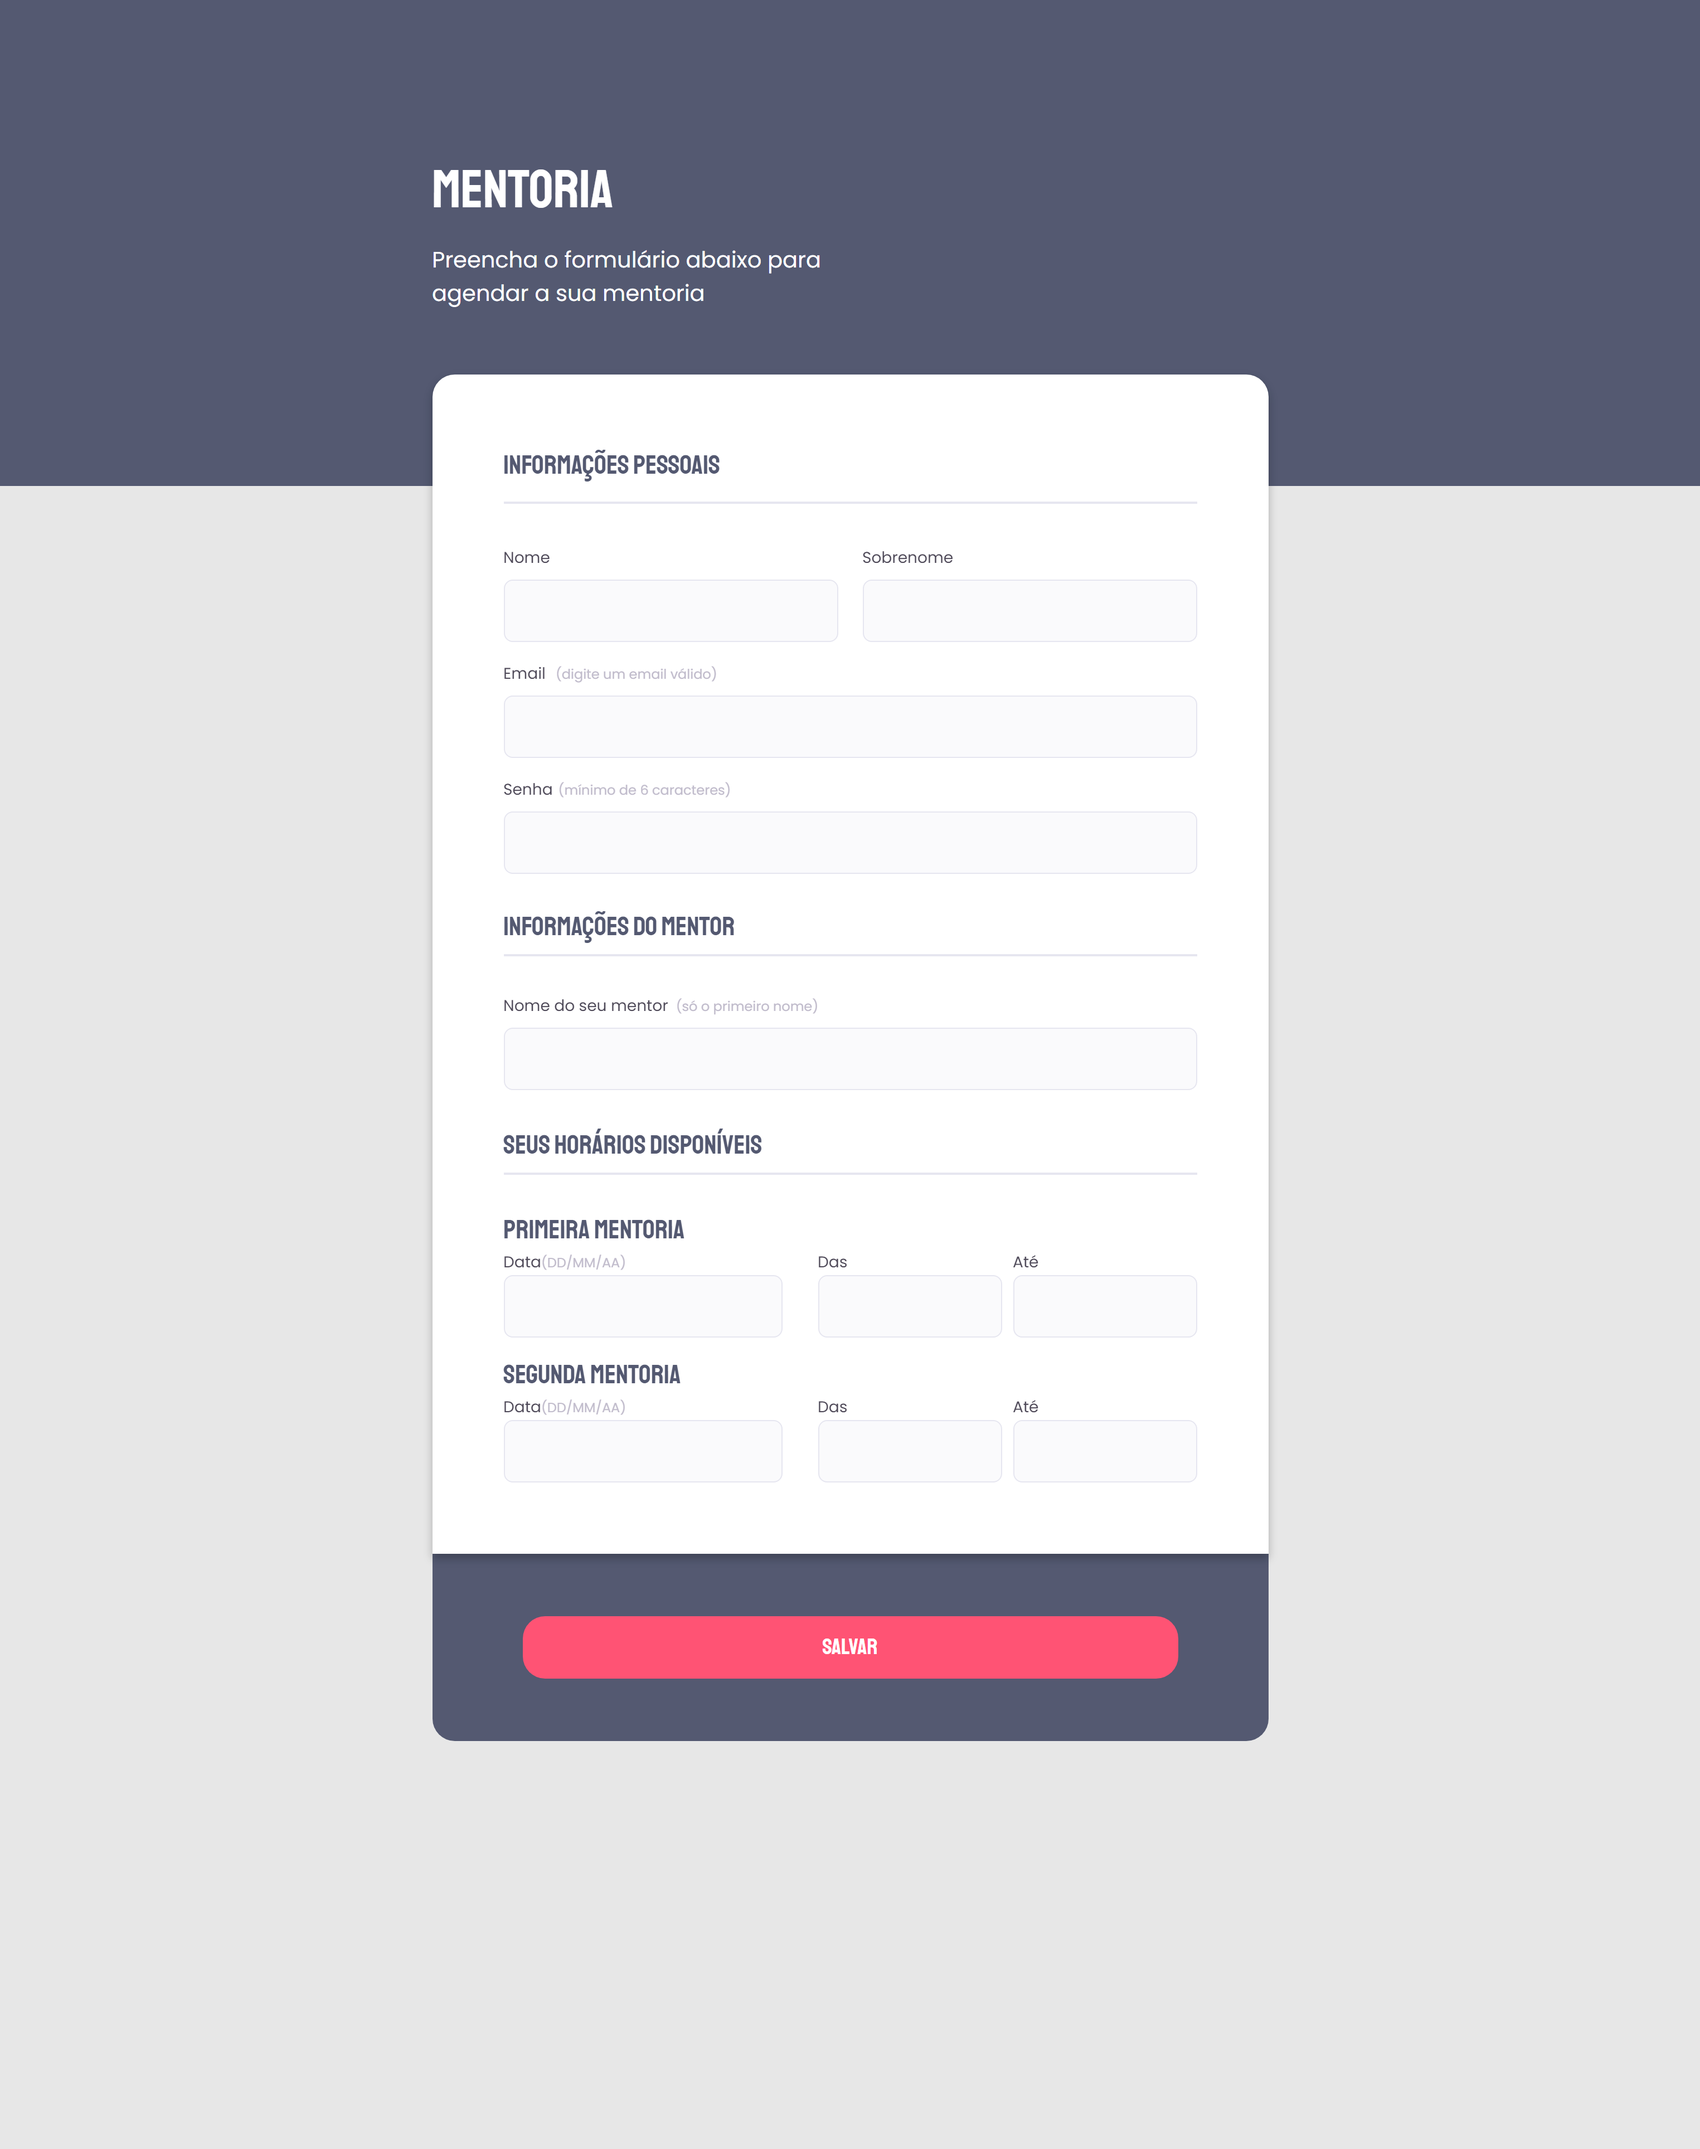
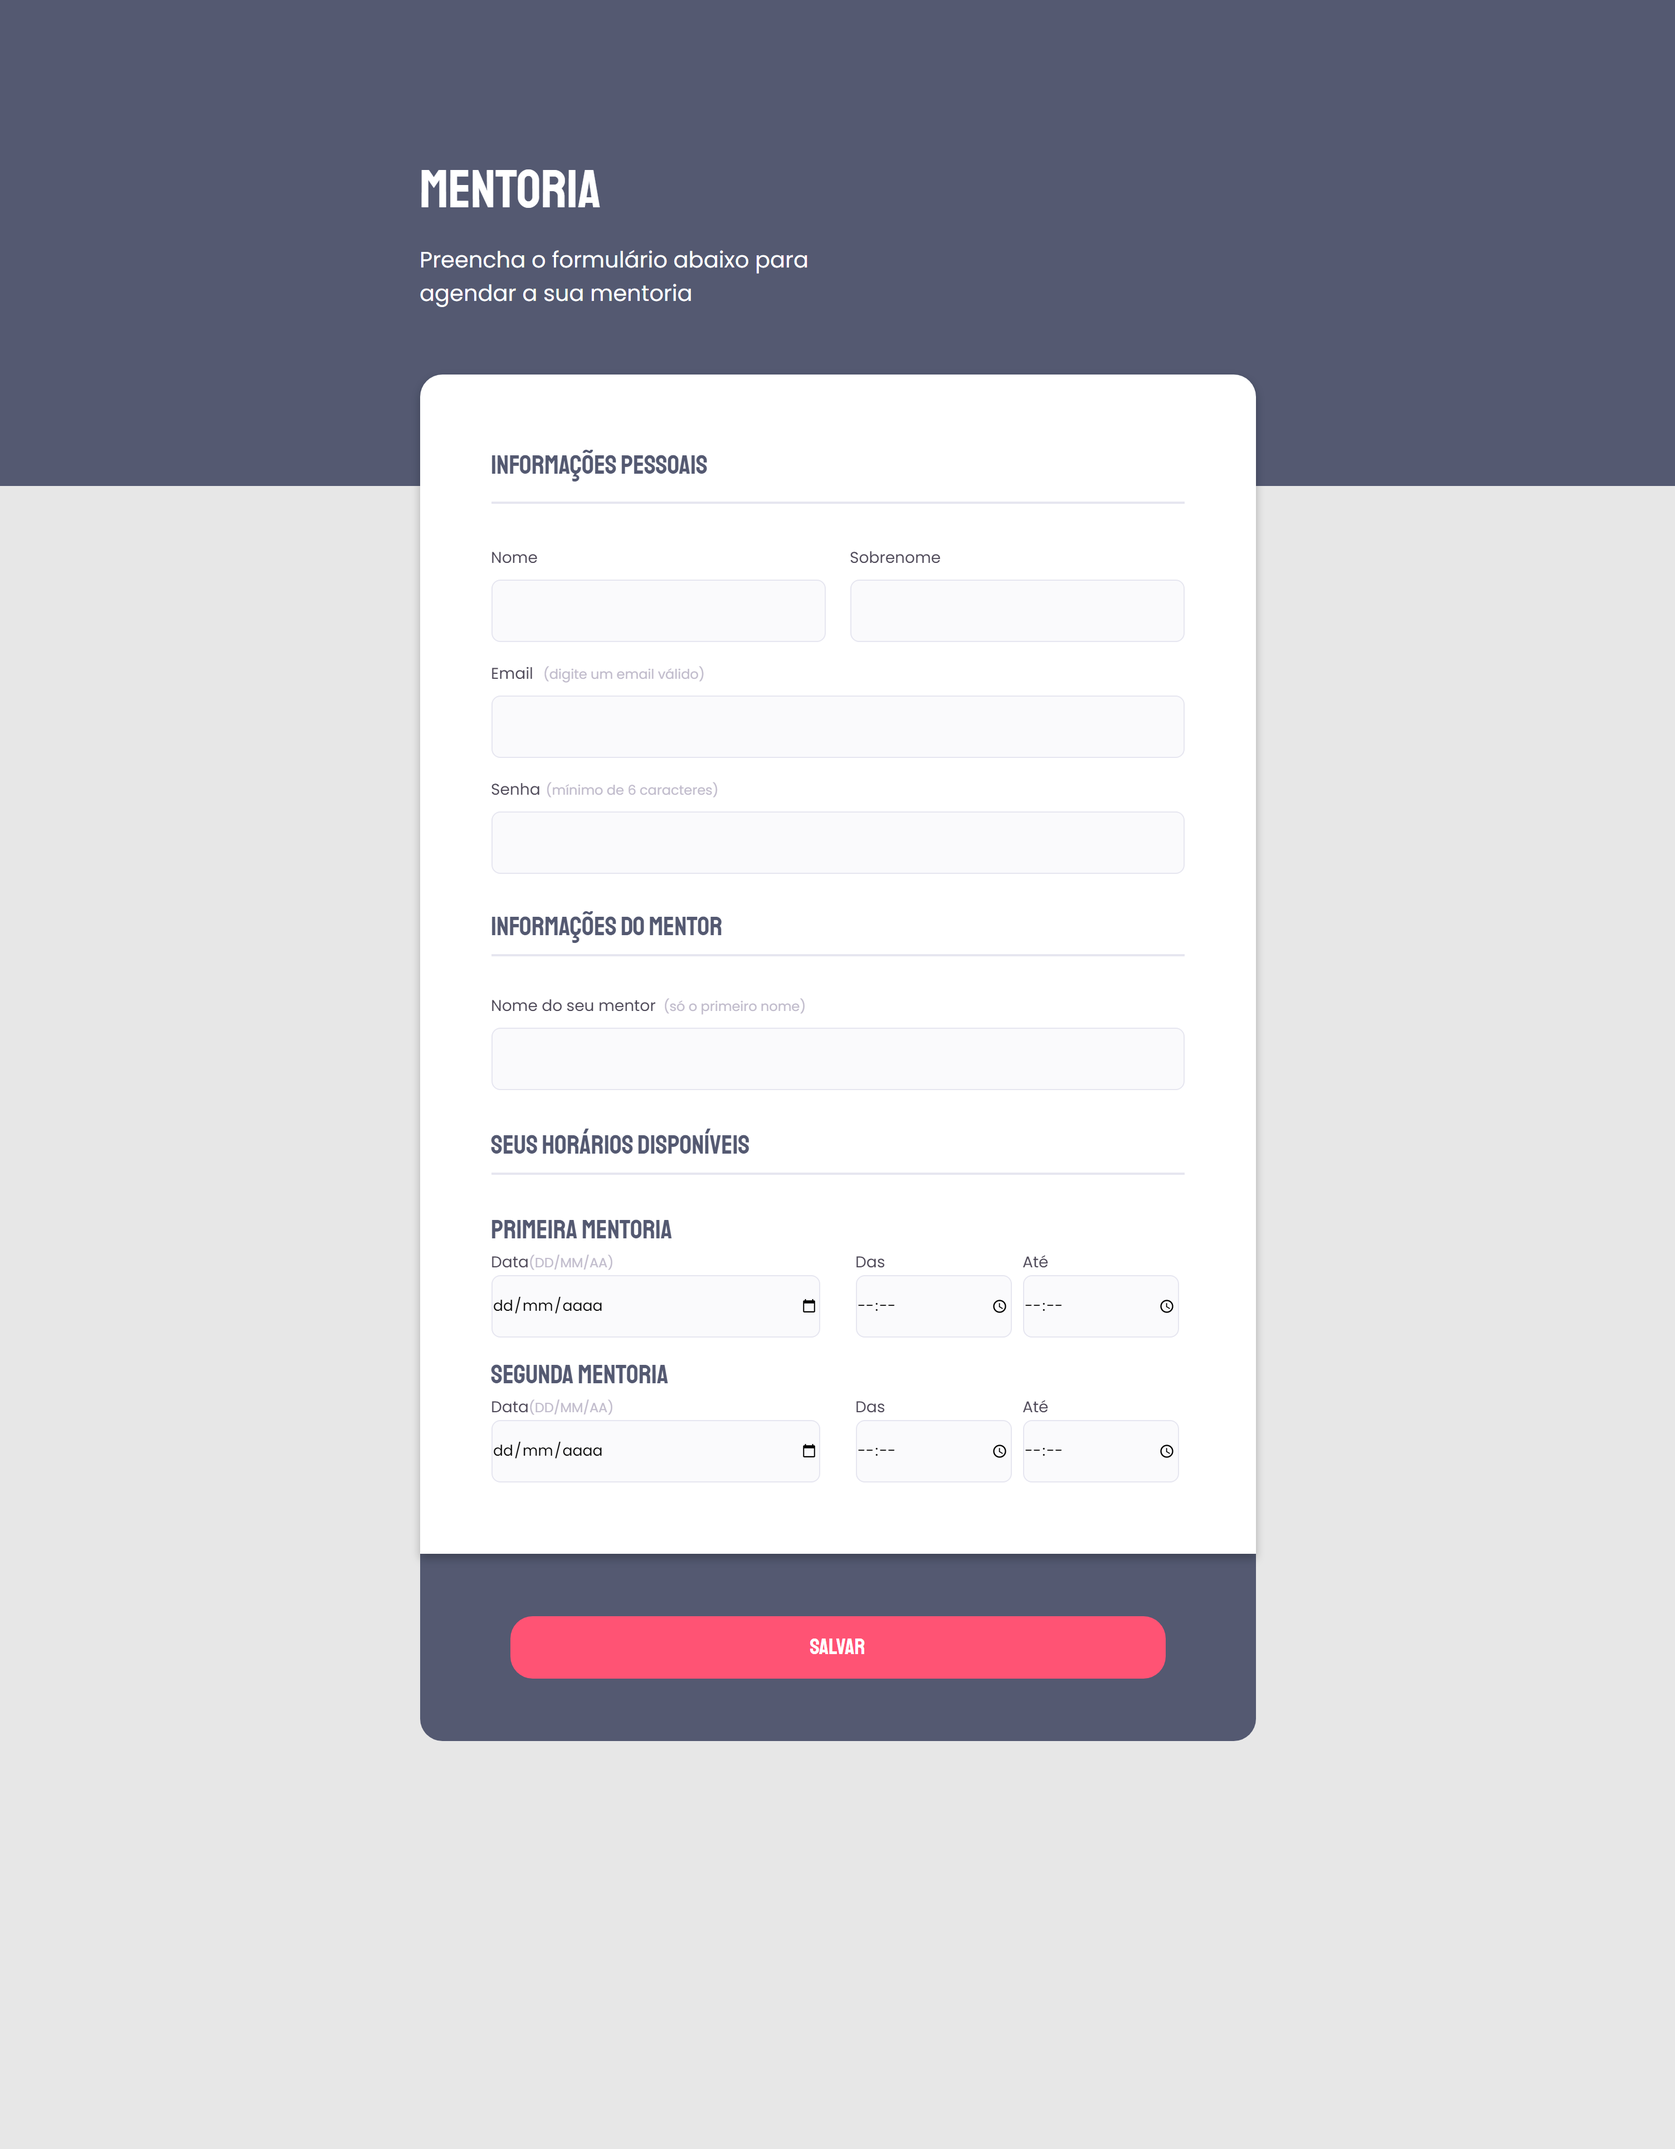
ajustes nos inputs

diff --git a/style.css b/style.css
@@ -109,10 +109,6 @@ form fieldset input {
   height: 5.6rem;
 }
 
-input:invalid{
-  border: 2px solid red;
-}
-
 form fieldset:nth-child(1) {
   padding-top: 6.4rem;
 }
@@ -148,7 +144,9 @@ form fieldset .input-wrapper #username,
 form fieldset .input-wrapper #lastname,
 form fieldset .input-wrapper #email,
 form fieldset .input-wrapper #password,
-form fieldset .input-wrapper#mentor-name {
+form fieldset .input-wrapper#mentor-name,
+form fieldset .input-wrapper .mentor-schedule .first-mentor-of-hour,
+form fieldset .input-wrapper .mentor-schedule .first-mentor-up-to-hour {
   display: flex;
   flex-direction: column;
   gap: 0.8rem;
@@ -172,7 +170,7 @@ form fieldset:nth-child(3) {
   padding-bottom: 6.4rem;
 }
 
-#second-minority-service{
+#second-minority-service {
   margin-top: 1.6rem;
 }
 
@@ -191,7 +189,20 @@ form fieldset .input-wrapper .first-mentor-date {
 form fieldset .input-wrapper .mentor-schedule {
   display: flex;
   flex-direction: row;
+  align-items: center;
   gap: 1rem;
+}
+
+form fieldset .input-wrapper .mentor-schedule .first-mentor-of-hour,
+form fieldset .input-wrapper .mentor-schedule .first-mentor-up-to-hour {
+  display: flex;
+  flex-direction: column;
+  gap: 0;
+}
+
+#of-hour,
+#up-to-hour {
+  width: 14rem;
 }
 
 footer {

diff --git a/index.html b/index.html
@@ -80,11 +80,11 @@
                 <div class="mentor-schedule">
                   <div class="first-mentor-of-hour">
                     <label for="of-hour">Das</label>
-                    <input type="text" id="of-hour" />
+                    <input type="time" id="of-hour" />
                   </div>
                   <div class="first-mentor-up-to-hour">
                     <label for="up-to-hour">Até</label>
-                    <input type="text" id="up-to-hour" />
+                    <input type="time" id="up-to-hour" />
                   </div>
                 </div>
               </div>
@@ -101,11 +101,11 @@
                 <div class="mentor-schedule">
                   <div class="first-mentor-of-hour">
                     <label for="of-hour">Das</label>
-                    <input type="text" id="of-hour" />
+                    <input type="time" id="of-hour" />
                   </div>
                   <div class="first-mentor-up-to-hour">
                     <label for="up-to-hour">Até</label>
-                    <input type="text" id="up-to-hour" />
+                    <input type="time" id="up-to-hour" />
                   </div>
                 </div>
               </div>
